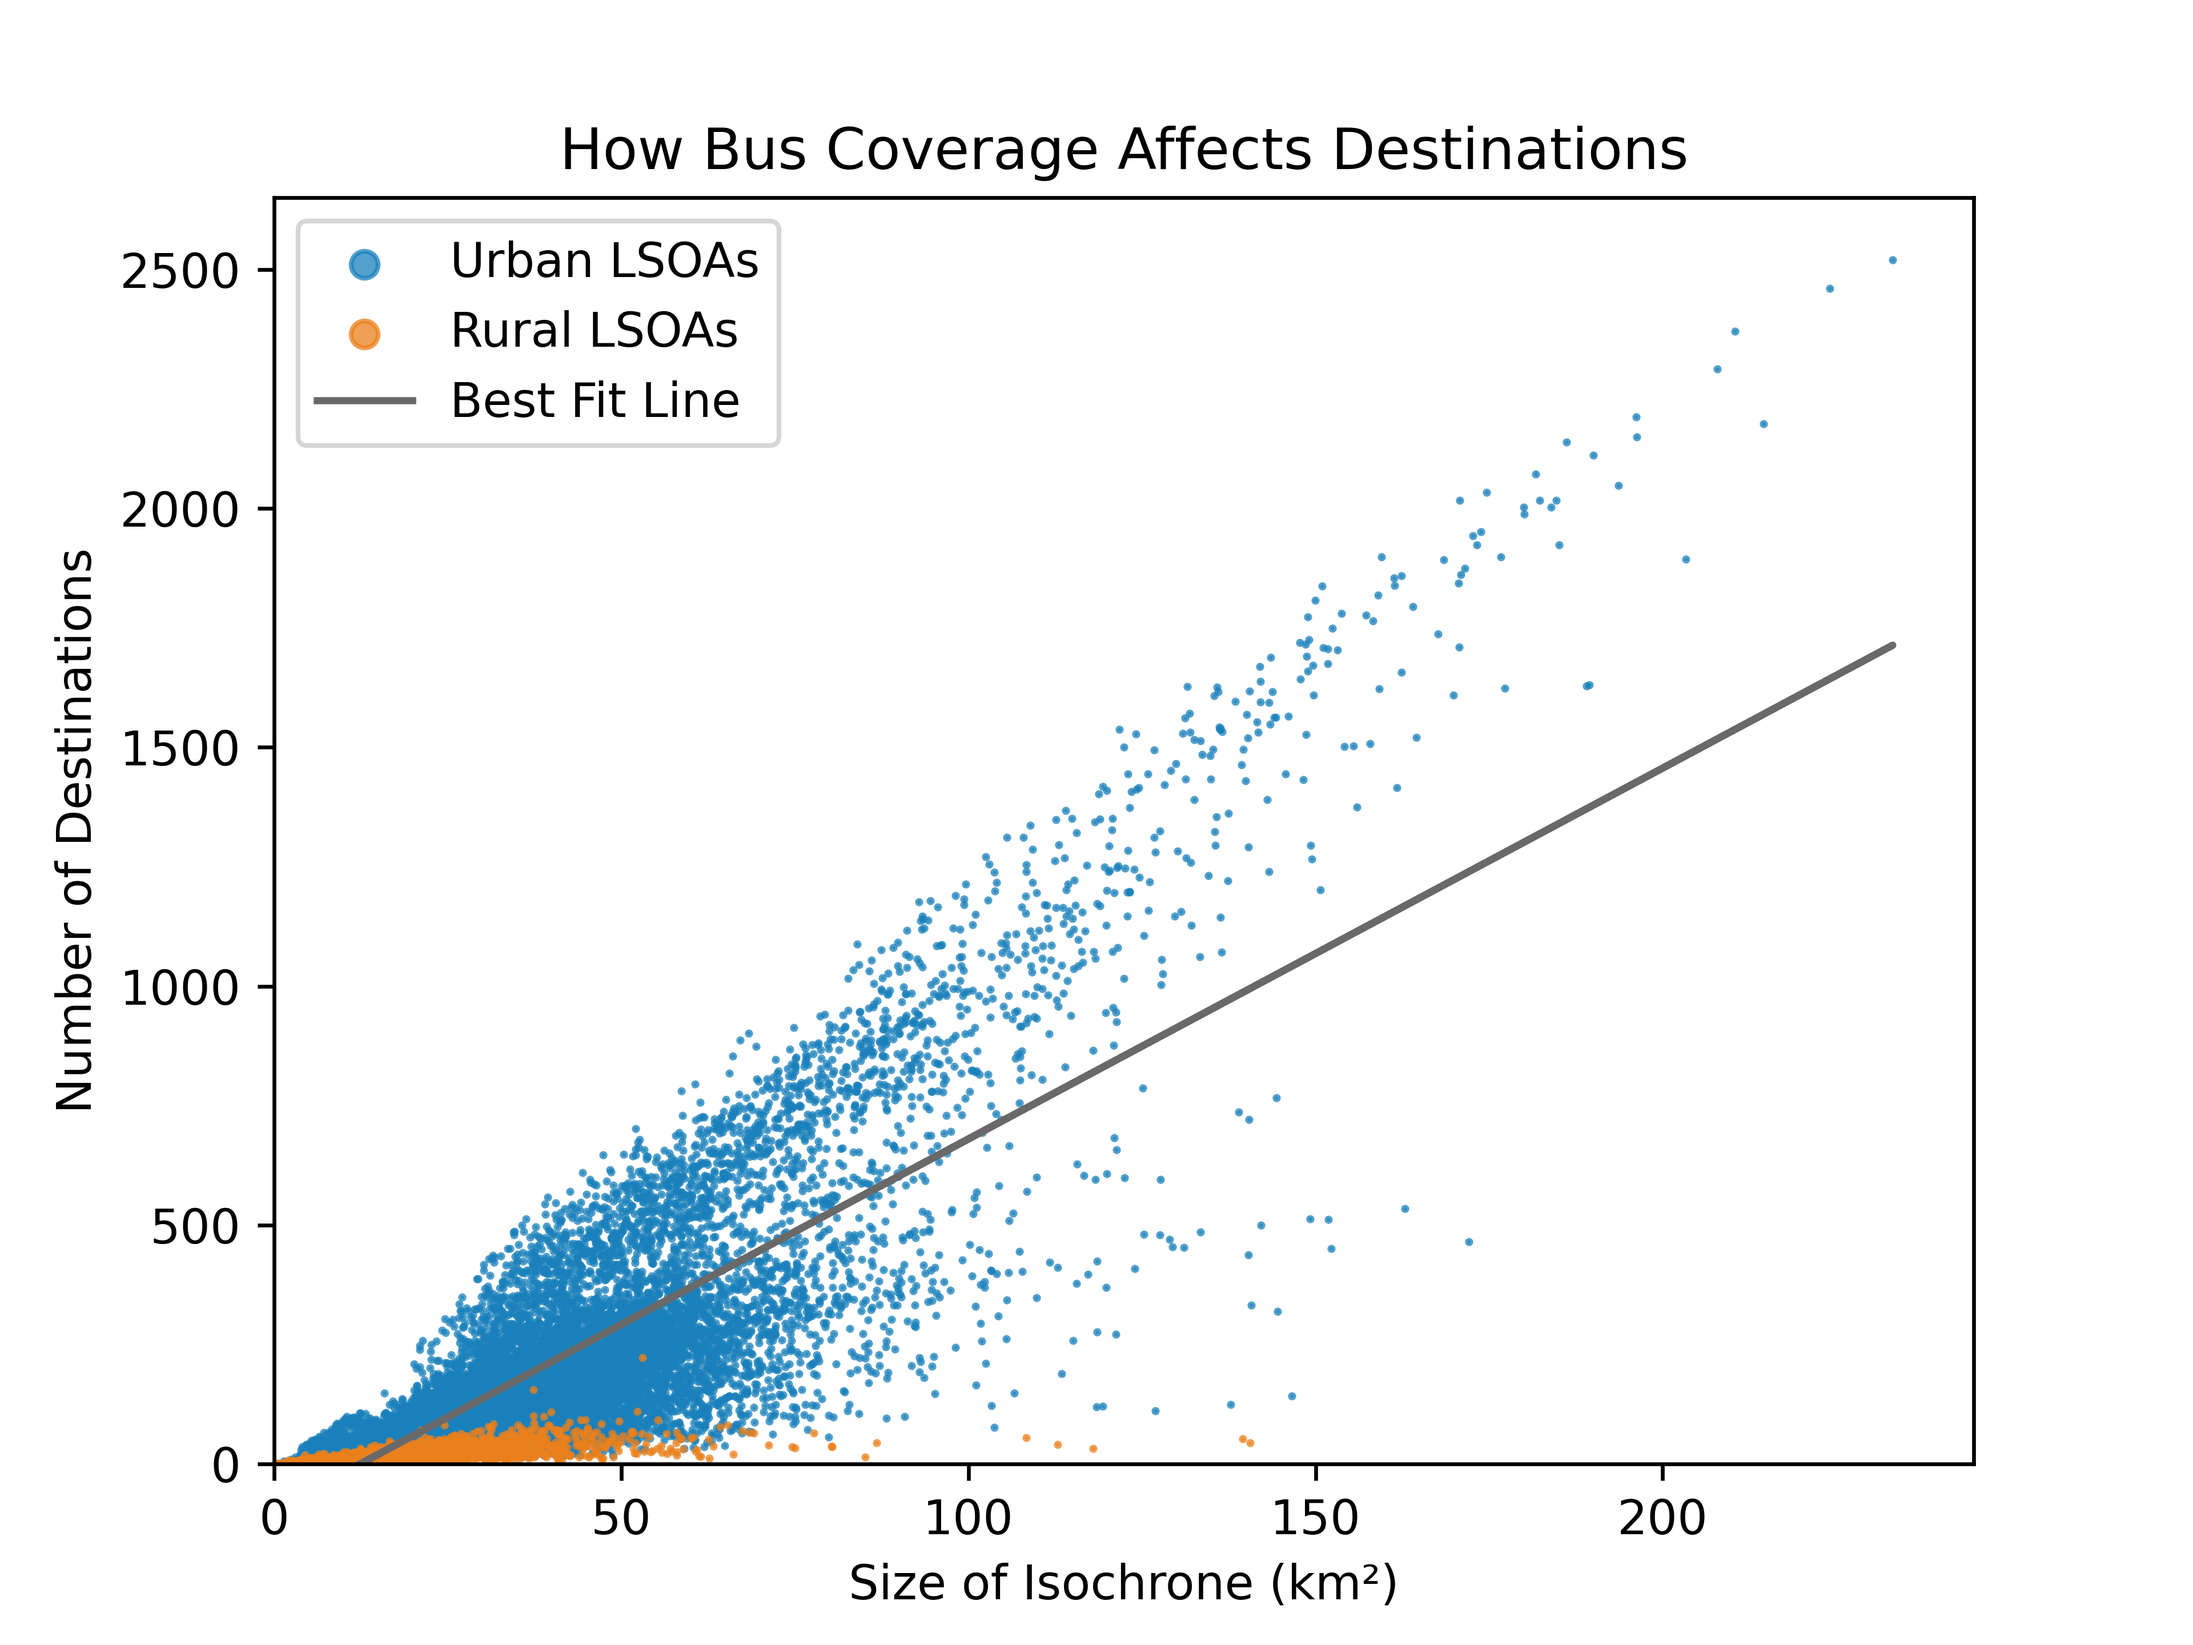
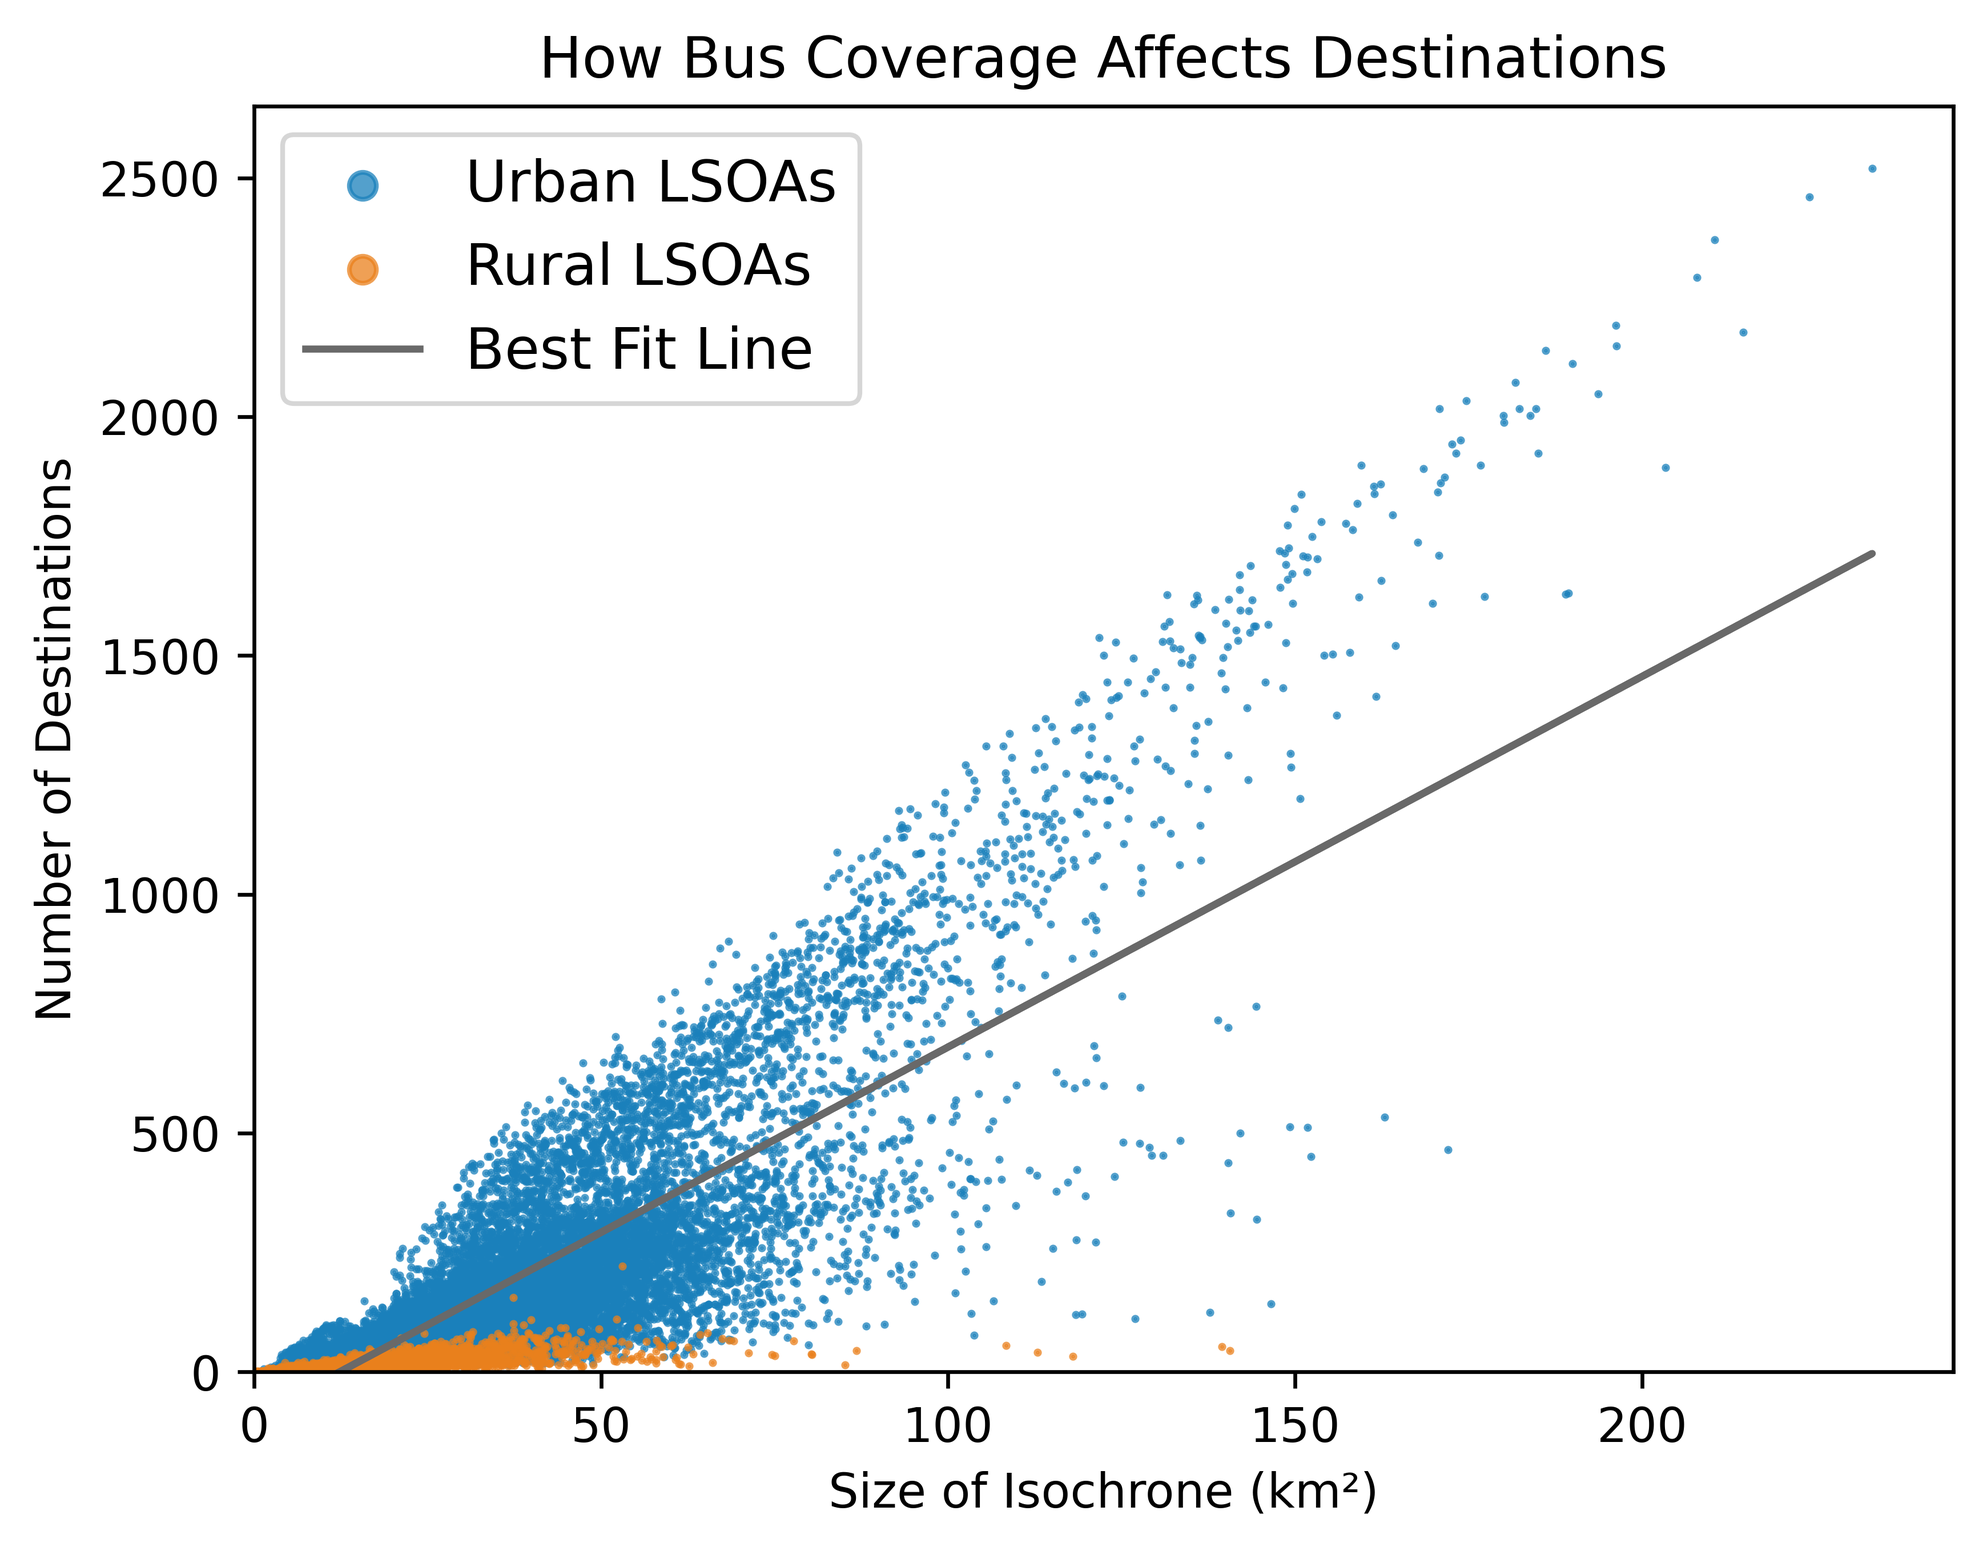
Increase legend size and reduce figure padding

diff --git a/plotting/size_destinations_scatterplot.py b/plotting/size_destinations_scatterplot.py
@@ -75,9 +75,12 @@ plt.xlim(left=0)
 plt.ylim(bottom=0)
 
 # Save to png
-plt.legend(loc="upper right", markerscale=8)
+plt.legend(loc="upper right", fontsize=12, markerscale=8)
 plt.tight_layout()
-plt.savefig(OUT_DIR / "plots" / "area_destinations_scatterplot.png", dpi=600)
+plt.savefig(OUT_DIR / "plots" / "area_destinations_scatterplot.png", 
+            dpi=600,
+            bbox_inches='tight', 
+            pad_inches=0.1)
 plt.close()
 
 
@@ -94,7 +97,7 @@ plt.scatter(rural['bus_area'], rural['total_bus'], color="#ea801c", alpha=0.75, 
 # Add line of best fit
 slope, intercept = np.polyfit(results['bus_area'], results['total_bus'], 1)
 plt.plot(results['bus_area'], slope*results['bus_area'] + intercept, color='dimgrey', linestyle='solid', linewidth=1.5, label='Best Fit Line')
-plt.legend(loc="upper left", fontsize=10, markerscale=8)
+plt.legend(loc="upper left", fontsize=12, markerscale=8)
 
 # Add title and labels
 plt.title('How Bus Coverage Affects Destinations')
@@ -104,4 +107,7 @@ plt.xlim(left=0)
 plt.ylim(bottom=0)
 
 # Save to png
-plt.savefig(OUT_DIR / "plots" / "bus_size_destinations_scatterplot.png", dpi=600)
+plt.savefig(OUT_DIR / "plots" / "bus_size_destinations_scatterplot.png", 
+            dpi=600,
+            bbox_inches='tight', 
+            pad_inches=0.1)
